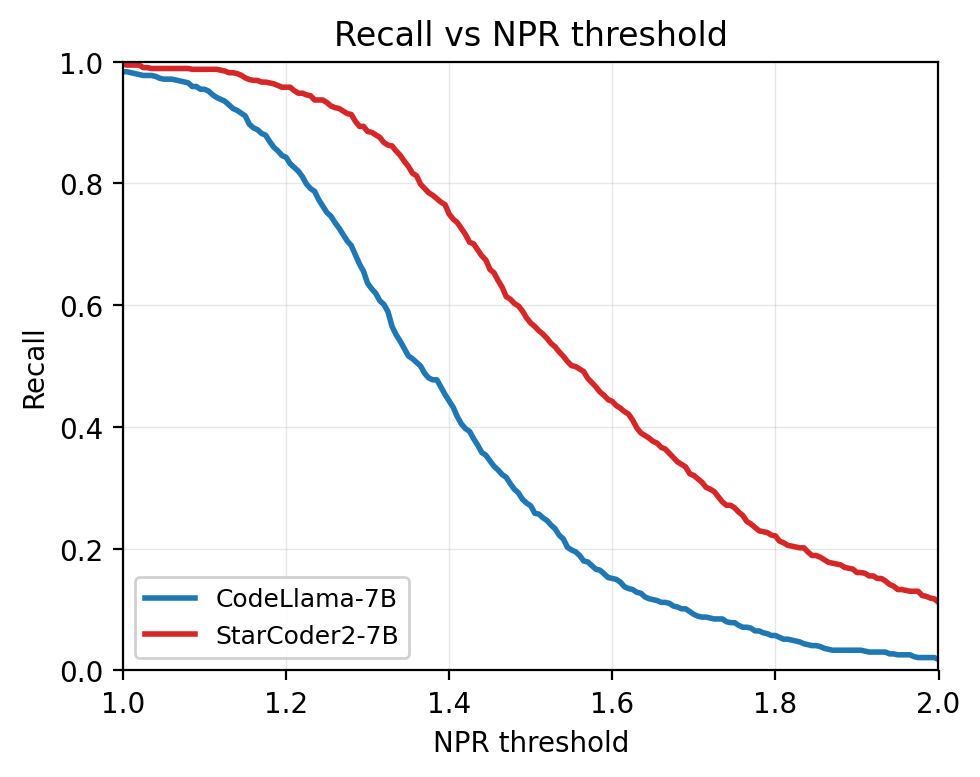
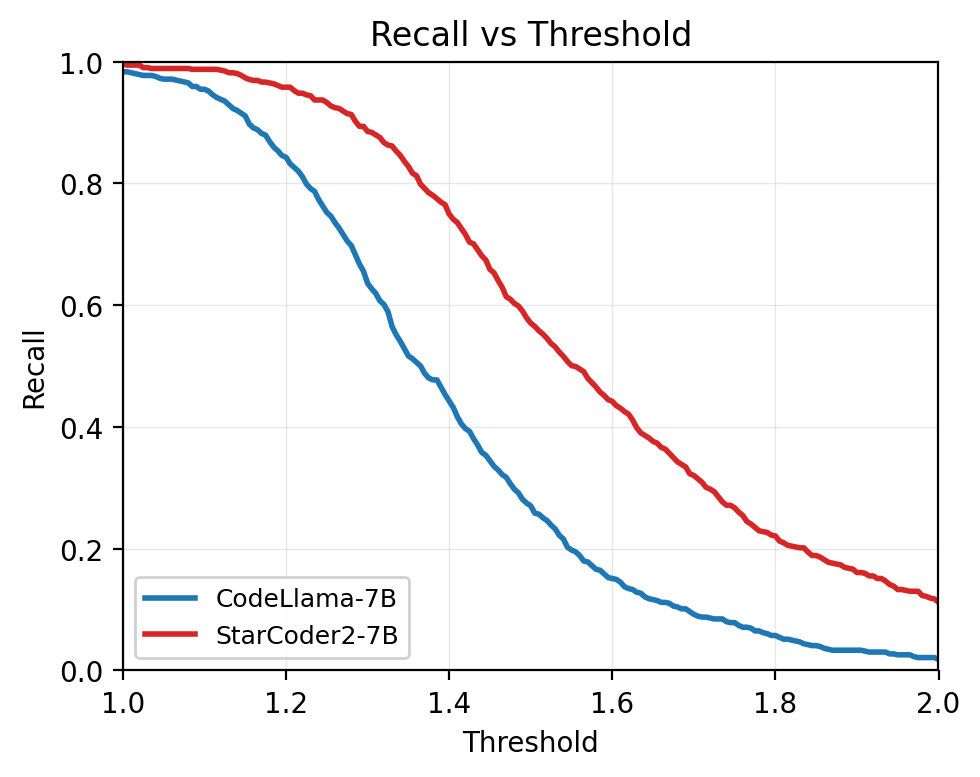
2026-05-18 23:47
Updated

Changed region(s): [[0.3367, 0.0309, 0.7653, 0.0618], [0.4286, 0.9266, 0.6429, 0.9884]]

diff --git a/code-detection/plot_threshold_multi_llms.py b/code-detection/plot_threshold_multi_llms.py
@@ -248,7 +248,7 @@ def plot_recall_panel(
         color = label_to_color[label]
         ax.plot(thresholds, data["recall"], color=color, linewidth=2.0,
                 label=label, zorder=2)
-    _style_panel(ax, "NPR threshold", "Recall", "Recall vs NPR threshold",
+    _style_panel(ax, "Threshold", "Recall", "Recall vs Threshold",
                  (thresholds.min(), thresholds.max()))
     ax.legend(loc="lower left", fontsize=9, framealpha=0.9)
 
